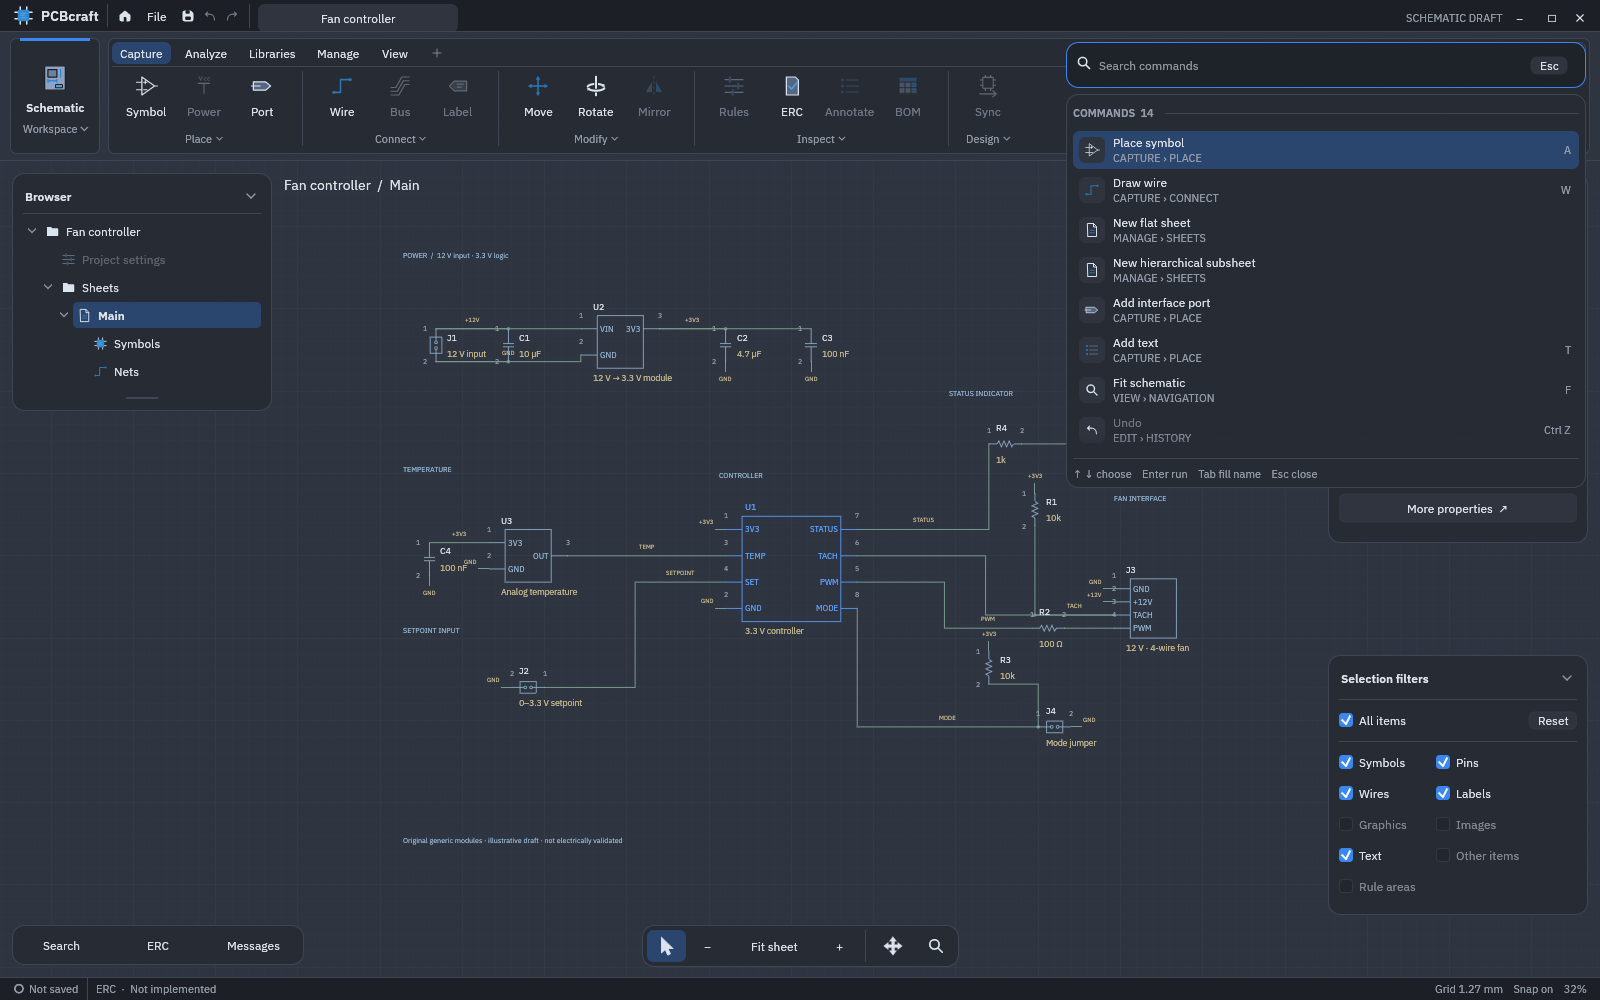
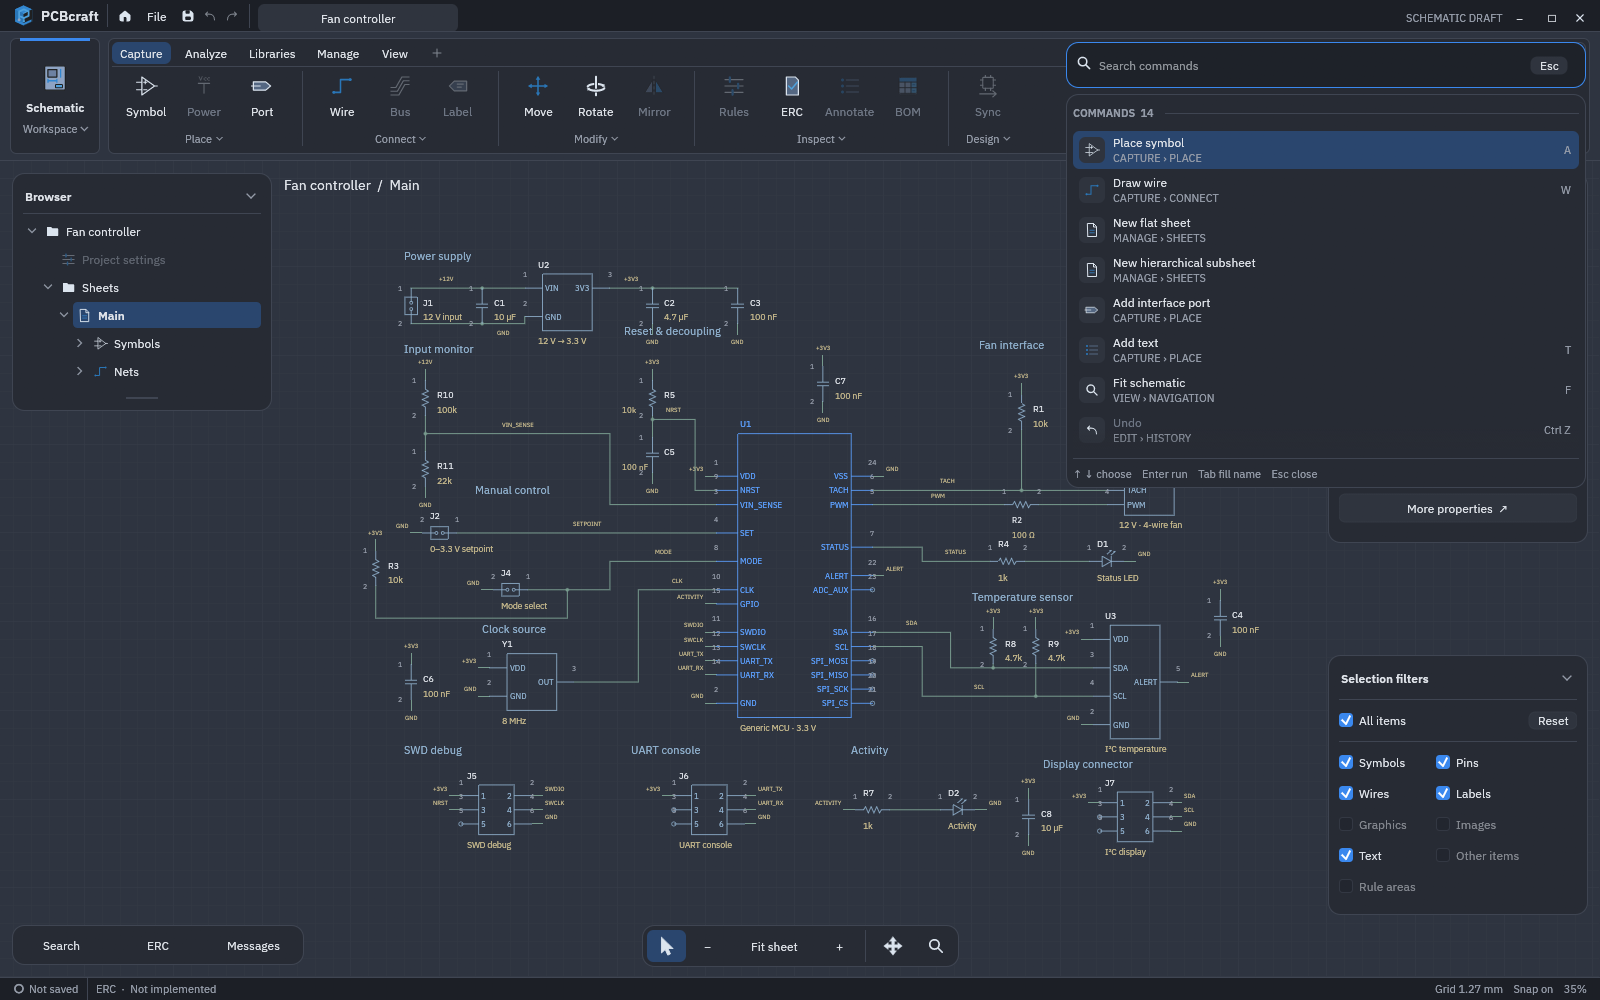
docs: refresh demo captures and UI review notes
Replace the README stills and 12-second captured-state tour with the new editable study and app mark. Record Browser, drawer and text-clearance behavior and capture provenance.

diff --git a/docs/ui-audit.md b/docs/ui-audit.md
@@ -108,16 +108,17 @@ navigation entry. Implementation-derived guidance that endorsed those controls i
 superseded by the final schematic export and its sheet-navigation interaction recipe.
 
 The Browser now shows Project → Project settings / Sheets → Main → Symbols / Nets.
-Symbols/Nets are sheet index entries opening aligned, searchable result tables in
-the bottom drawer. Browser hierarchy stays visible while results select real symbols
-or nets. Disclosure hit targets have stable IDs and do not alter object selection.
+Symbols/Nets now expand in-place sheet-local lists; item clicks select the object
+without opening the bottom drawer. The Symbol glyph is the Capture ribbon glyph.
+Search remains independently available. Disclosure hit targets have stable IDs
+and do not alter object selection.
 The active sheet and the selected result are separate states. The loose connection
 count and permanent scrolling instructions are removed; a quiet resize grip remains.
 The card sizes to its rows unless manually resized and scrolls when needed.
 
-Only Main exists in the current document. Project settings, flat-sheet creation and
-hierarchical-sub sheet creation remain disabled with truthful tooltips; this pass
-adds no sheet schema. See [sheet workflows](sheet-workflows.md) for the implementation
+At that checkpoint only Main existed. Flat-sheet and hierarchical-sheet creation
+were still disabled; the subsequent sheet implementation below supersedes that
+limitation. Project settings remain unavailable. See [sheet workflows](sheet-workflows.md) for the implementation
 sequence and acceptance criteria. No fictitious child sheets were added to the demo.
 
 Reviewed the user's actual final schematic export and read-only navigation recipes,
@@ -137,7 +138,7 @@ Real sheet actions now use the existing menu/action/field tokens: Manage → She
 browser context menus, creation and destructive-review dialogs, and contextual
 Properties for sheet symbols and ports. The tree follows the user's final
 `01-schematic-overview.png`: Main expanded, inactive children/siblings folded on
-open, stable selection rows, nested children and sheet-local Symbols/Nets links.
+open, stable selection rows, nested children and sheet-local Symbols/Nets categories.
 The browser sizes to visible rows and scrolls within the available viewport.
 
 Native 1600×1000 and 1000×700 captures were reviewed at
@@ -151,3 +152,28 @@ Clippy pass. Local proof files are excluded from version control.
 
 This is a schematic hierarchy slice, not a layout view, a complete FigCraft
 animation implementation or an accessibility/performance certification.
+
+## Demo, identity and panel follow-up
+
+The user rejected the sparse example, overlapping labels, generic app icon and
+Browser-to-drawer shortcuts. The demo is now an original 31-part study based on
+`designs/exports/workspaces-2026-10-30/01-schematic-overview.png` for composition:
+central controller, compact support circuits and surrounding interfaces. The
+reference design file remains unchanged. All geometry/text is editable, with
+explicit wires/junctions, supply aliases and stored text offsets. No screenshot
+or external electrical design is embedded in the canvas.
+
+Measured tests cover reference/value clearance from authored wires and full-size
+text-to-text clearance. Native captures at 1600×1000 and 1000×700 are reviewed;
+small overview detail still requires zoom. This is curated presentation, not a
+general-purpose label arranger or an electrical validation result.
+
+Symbols and Nets are independent collapsible Browser lists, initially folded to
+keep sheets discoverable. Click a list item to select it; only sheet navigation or
+item selection changes the active sheet. The drawer’s top grip resizes vertically,
+clamped to the workspace, without changing camera, document or undo. Its height
+persists across tabs/collapse within the session. Existing panel layering and
+shared theme/control roles remain in use.
+
+An original layered-board/P mark replaces the chip in the title bar and supplies
+the native OS window icon. See [original asset provenance](../assets/original/README.md).

diff --git a/docs/screenshots/README.md b/docs/screenshots/README.md
@@ -6,28 +6,29 @@ or an AI-generated design. The example is an editing illustration, not an
 electrically validated reference circuit.
 
 Captured November 3, 2026 on Linux from desktop code at
-`5bb0a4d1d547f386c6a0953805fe25a2e300f242` (egui/eframe 0.36.2).
+`c4dd083baaf0b3505f80560c1f2249fc5115e73d` (egui/eframe 0.36.2).
 The three PNGs are unmodified 1600 × 1000 app captures. The GIF retains that size
 and uses a shared 256-color palette. No UI or circuit content was composited.
 
 | File | Actual app state | Capture options |
 | --- | --- | --- |
 | [schematic.png](schematic.png) | Example schematic with U1 selected and Properties visible | `--demo` |
-| [library.png](library.png) | Floating Parts library with the eight built-in generic symbols | `--demo --capture-library` |
+| [library.png](library.png) | Floating Parts library with the twelve built-in generic symbols | `--demo --capture-library` |
 | [commands.png](commands.png) | Command-search palette, including sheet creation actions | `--demo --capture-search` |
 | [desktop-tour.gif](desktop-tour.gif) | Loop through the three stills above, four seconds each | 12 seconds at 1 fps, palette-encoded with FFmpeg 8.1.3 |
 
 The GIF is a **tour of captured states**, not a recording of pointer motion or
 completed edits. The main README keeps the animation in an expandable section and
 links all static alternatives. The frames were visually reviewed, and duration,
-dimensions and decoding checked. Total image size is approximately 1.5 MB.
+dimensions and decoding checked. Total image size is approximately 1.7 MB.
 
 SolidCraft's [README at the reference pin](https://github.com/tangency-labs/solidcraft/blob/c553365a2197a689e749389a6fbf707a38df9b61/README.md)
 informed the product introduction, real-app media, caption and build/status layout.
 No upstream media was imported. Captures show existing licensed artwork/control
 adaptations and IBM Plex Sans; their [provenance and notices](../../assets/family/README.md)
 continue to apply. Original project contributions use the root MIT OR Apache-2.0
-license. No extra image/font asset or application dependency was added.
+license. The original PCBcraft application mark is included; its [asset provenance](../../assets/original/README.md)
+is separate from the capture process. No application dependency was added.
 
 ## Refresh the captures
 
